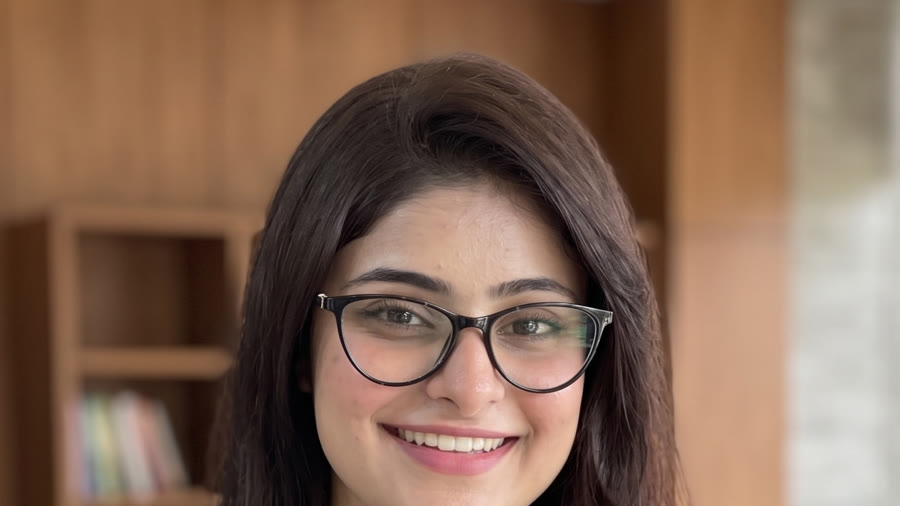
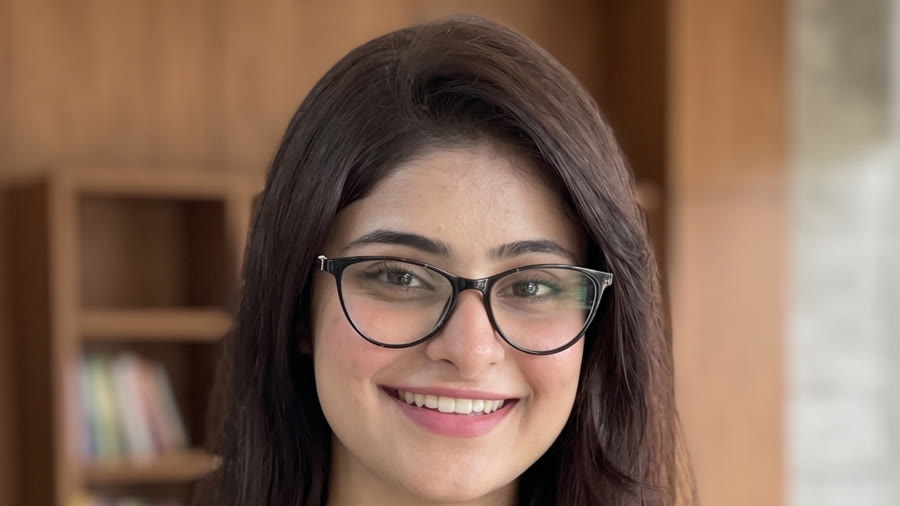
News: real Akhtar caption, lower Somia crop, larger Earth Engine graphic

diff --git a/src/data/news.js b/src/data/news.js
@@ -4,7 +4,7 @@ export const news = [
     date: '2026-10-19',
     title: 'GSAL Gratefully Acknowledges Its Esteemed Donor, Akhtar Ali',
     excerpt:
-      'We are deeply grateful to Akhtar Ali for his generous support of the lab. Contributions like his help GSAL keep its research and training work running for students and early career researchers.',
+      'We are deeply grateful to Akhtar Ali, Director at RAKTA PTY LTD in Perth, Australia, who stepped forward at the very start of our journey to help set up the lab and support our student researchers. A graduate of the Institute of Geography at the University of the Punjab, he is someone we are proud to call one of our own.',
     linkedin: 'https://www.linkedin.com/feed/update/urn:li:activity:7516855073411518465',
     image: '/images/team/Akhtar_Ali_card.jpg',
     imageFit: 'cover',

diff --git a/src/pages/News.jsx b/src/pages/News.jsx
@@ -103,7 +103,7 @@ function NewsImage({ item, onZoom, className, imgClassName }) {
       type="button"
       onClick={() => onZoom(item)}
       aria-label={`Zoom image: ${item.title}`}
-      className={`group/img relative block cursor-zoom-in overflow-hidden focus-visible:outline-none focus-visible:ring-2 focus-visible:ring-[#2d9462]/60 ${cover ? '' : 'p-5'} ${className}`}
+      className={`group/img relative block cursor-zoom-in overflow-hidden focus-visible:outline-none focus-visible:ring-2 focus-visible:ring-[#2d9462]/60 ${cover ? '' : 'p-2'} ${className}`}
       style={{ background: cover ? '#e9edea' : ACCENT + '14' }}
     >
       <img
